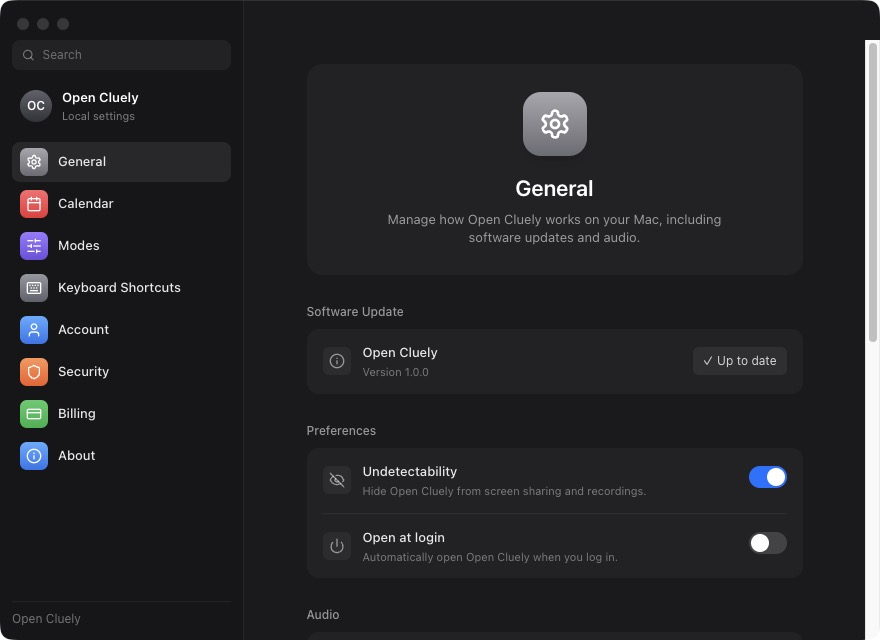
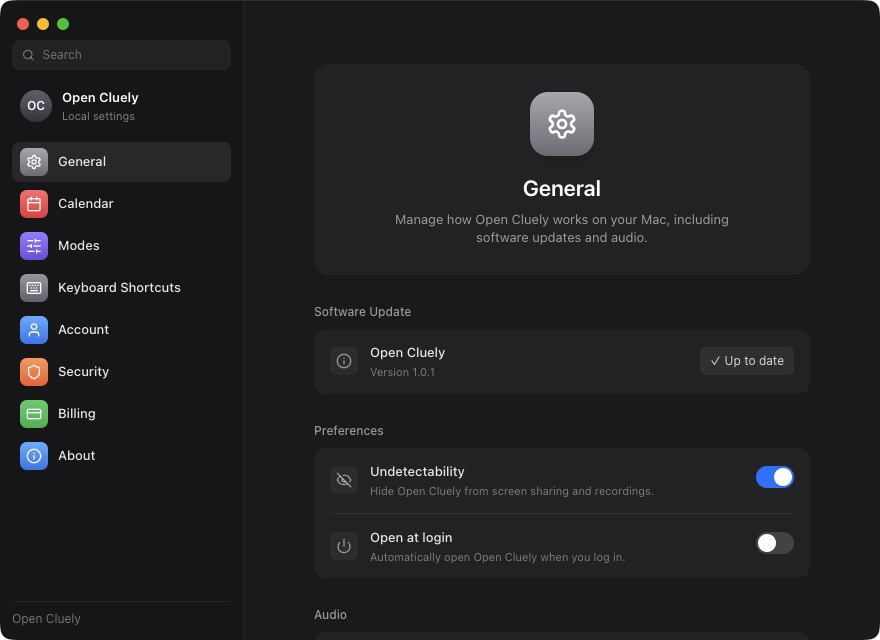
Show the real app version in Settings (was hardcoded to 1.0.0)
The General page displayed a literal "Version 1.0.0" for every build; read it
from package.json instead so it always matches the installed version. Refresh
the README settings screenshot to match (now 1.0.1).

diff --git a/src/_pages/Settings.tsx b/src/_pages/Settings.tsx
@@ -1,4 +1,5 @@
 import React, { useEffect, useRef, useState } from "react"
+import pkg from "../../package.json" // app version, always matches the build
 import {
   LuSettings,
   LuCalendar,
@@ -350,7 +351,7 @@ const General: React.FC = () => {
             first
             icon={LuInfo}
             title="Open Cluely"
-            description="Version 1.0.0"
+            description={`Version ${pkg.version}`}
             control={<span className="inline-flex h-7 items-center gap-1 rounded-md bg-white/[0.06] px-2.5 text-[12px] text-white/80"><span aria-hidden>✓</span> Up to date</span>}
           />
         </div>
